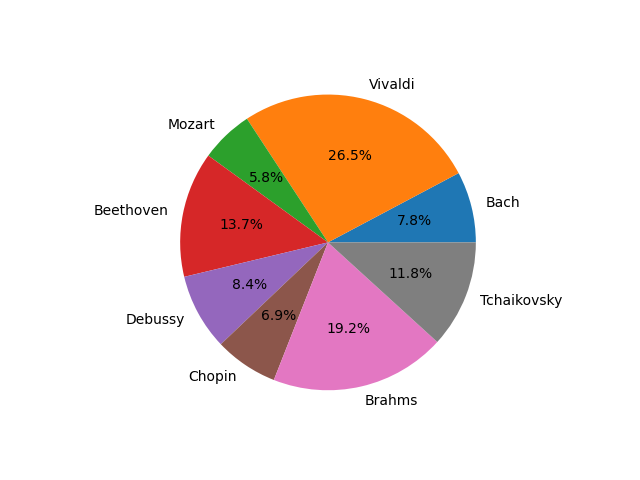
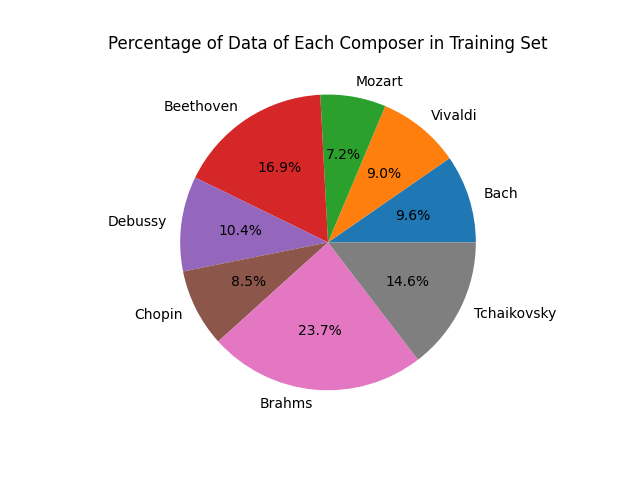
update

diff --git a/data_convert.py b/data_convert.py
@@ -34,7 +34,7 @@ def get_label(filename):
               "Beethoven": [0, 0, 0, 1, 0, 0, 0, 0],
               "Debussy": [0, 0, 0, 0, 1, 0, 0, 0],
               "Chopin": [0, 0, 0, 0, 0, 1, 0, 0],
-              "Brahms": [0, 1, 0, 0, 0, 0, 1, 0],
+              "Brahms": [0, 0, 0, 0, 0, 0, 1, 0],
               "Tchaikovsky": [0, 0, 0, 0, 0, 0, 0, 1]}
     for name in labels:
         if name in filename:
@@ -43,7 +43,7 @@ def get_label(filename):
 
 
 if __name__ == "__main__":
-    dir = 'C:\\Users\\patty\\Desktop\\engsciy3\\ece324\\raw\\'
+    dir = 'D:\\music_classifier\\raw\\'
     out_dir = 'D:\\music_classifier\\data\\'
     # sub_dir = {"train\\", "validate\\", "test\\"}
     sub_dir = {"train\\"}
@@ -74,25 +74,27 @@ if __name__ == "__main__":
         filenames = os.listdir(dir + folder)
         # open every file in the directory
         for file in filenames:
-            print("file done")
             label = get_label(file)
 
             y, sr = librosa.load(dir+folder+file, sr=22050)
-            # the length of a 20 sec clip
+            # the length of a 10 sec clip
             length = sr*10
+            sample_num = 0
+            total = len(y)//sr
 
-            # slice into shorter clips
-            start = 0
-            total = len(y)
-            while start + length < total:
+            # take 15 samples from each piece
+            while sample_num < 15:
+                start = np.random.randint(total-10)
                 extract_arr = y[start:start+length:]
-                start += length
+                # preprocess
                 arr_f = get_feature_vector(extract_arr, sr)
                 arr_s = librosa.feature.melspectrogram(extract_arr, sr)
                 labels.append(label)
                 # append the new arrays to the total array
                 feature_array.append(arr_f)
                 spectrogram_array.append(arr_s)
+
+                sample_num += 1
 
         # convert to np arrays and save to file
         save_to_csv(out_dir + folder + "feature", feature_array)

diff --git a/data/data_visualizer.py b/data/data_visualizer.py
@@ -5,15 +5,18 @@ import numpy as np
 def pie_graph(y, mylabels):
 
     plt.pie(y, labels=mylabels, autopct='%1.1f%%')
+    plt.title("Percentage of Data of Each Composer in Training Set")
     plt.show()
 
 if __name__ == "__main__":
     # load data
+    '''
     results = np.zeros(8)
     dir = "D:\\music_classifier\\data\\"
     y_train = np.load(dir + "train\\label.npy")
-    for row in y_train:
-        results += row
-
+    for data in y_train:
+        results += data
+    '''
+    results = [7.8, 7.3, 5.8, 13.7, 8.4, 6.9, 19.2, 11.8]
     pie_graph(results, ["Bach", "Vivaldi", "Mozart", "Beethoven", "Debussy", "Chopin", "Brahms", "Tchaikovsky"])
 
